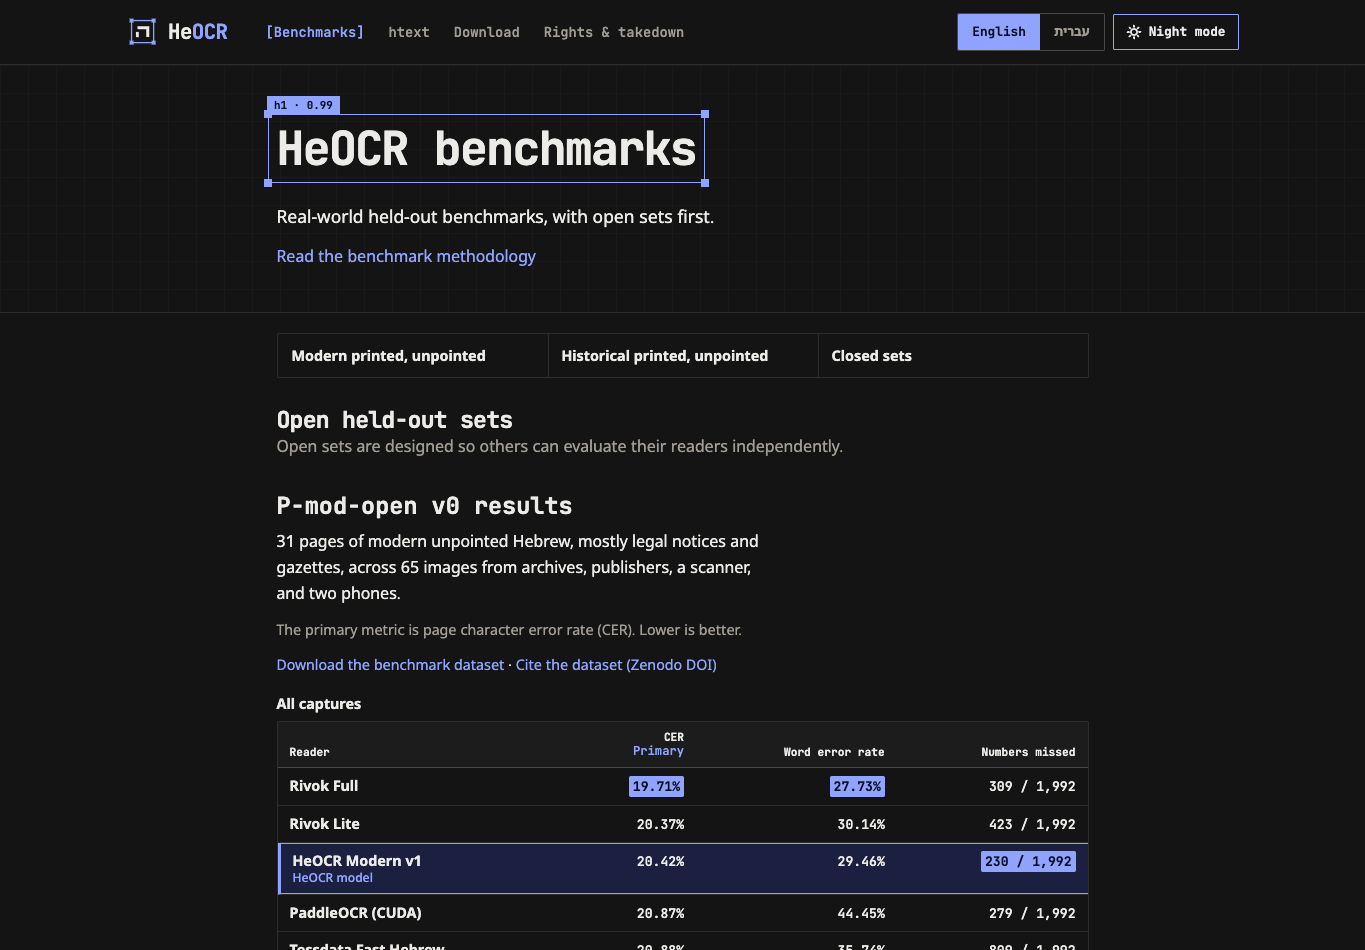
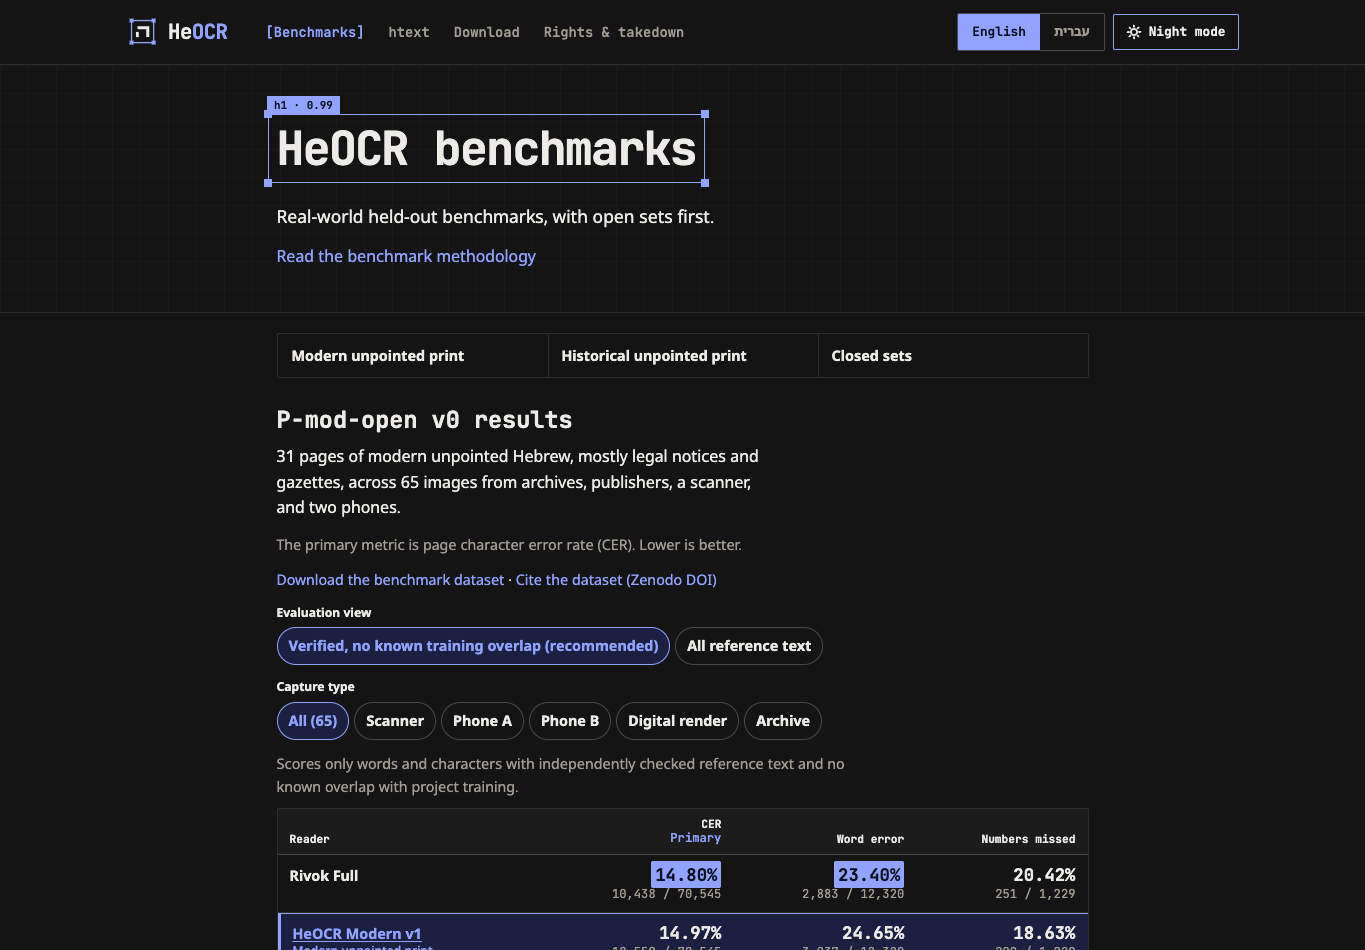
Refresh screenshots for benchmark controls and native fallback

Changed region(s): [[0.1846, 0.4274, 0.8, 1.0], [0.2462, 0.3663, 0.3692, 0.3968], [0.4615, 0.3663, 0.5538, 0.3968]]

diff --git a/README.md b/README.md
@@ -1,7 +1,8 @@
 # Benchmark page redesign screenshots
 
-The baseline is heocr.github.io at `acccb6aa`. The redesign is at `136ee68`.
-Both were served locally and captured in Chromium at the same desktop size
+The baseline is heocr.github.io at `acccb6aa`. The redesign is at `35df423`.
+The phone-width fallback images were rendered with JavaScript disabled.
+Both versions were served locally and captured in Chromium at the same desktop size
 (1365 × 950) and phone size (390 × 844), with the site's light and dark themes.
 The modern and historical detail screenshots start at the results section.
 
